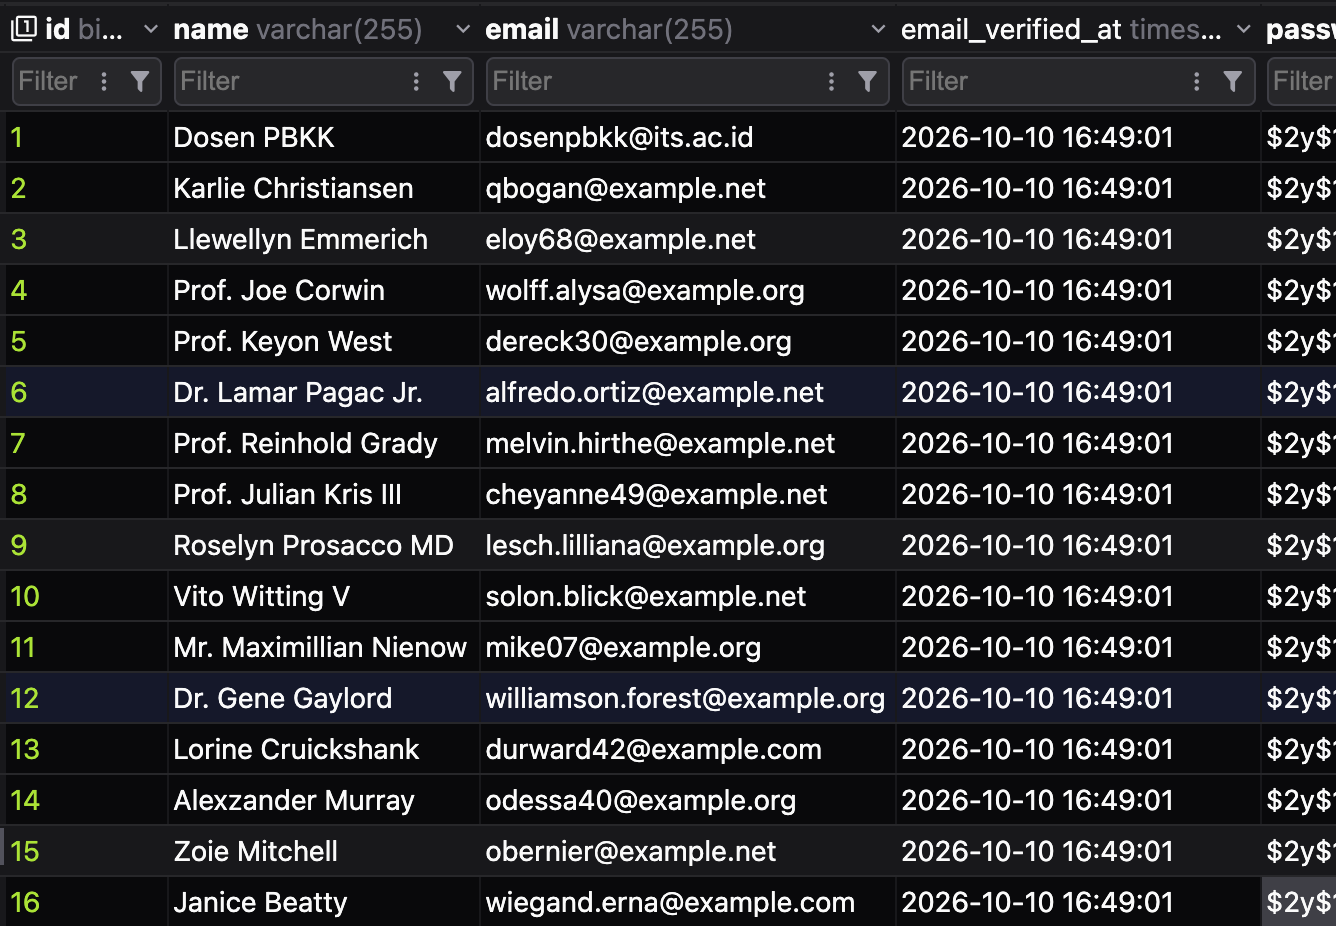
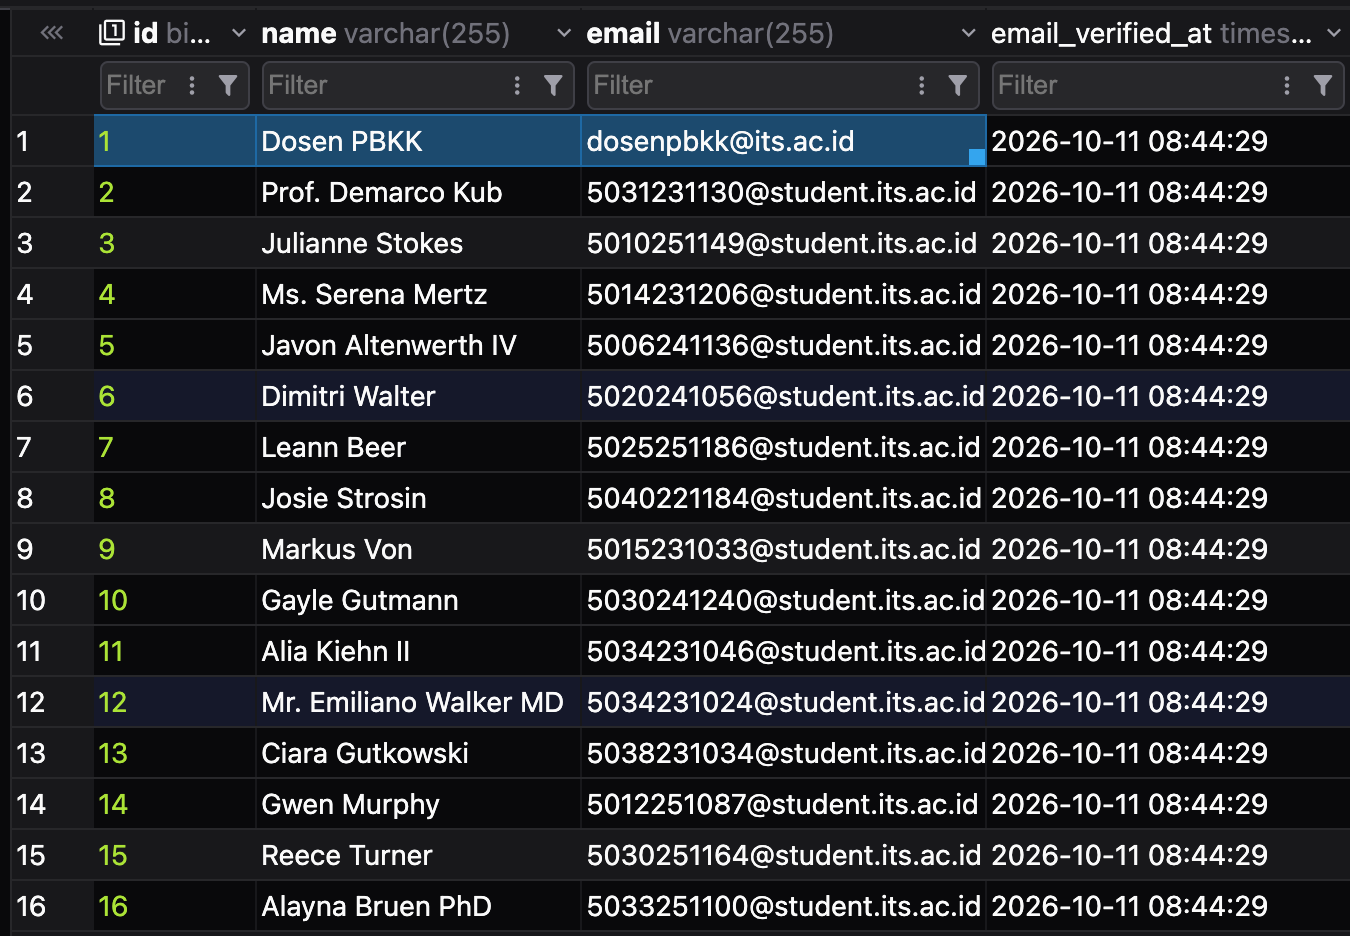
feat: final touch
ITS-ification emailwise and added database testing

diff --git a/database/factories/UserFactory.php b/database/factories/UserFactory.php
@@ -12,16 +12,8 @@ use Illuminate\Support\Str;
  */
 class UserFactory extends Factory
 {
-    /**
-     * The current password being used by the factory.
-     */
     protected static ?string $password;
 
-    /**
-     * Define the model's default state.
-     *
-     * @return array<string, mixed>
-     */
     public function definition(): array
     {
         return [
@@ -34,8 +26,40 @@ class UserFactory extends Factory
     }
 
     /**
-     * Indicate that the model's email address should be unverified.
+     * Indicate that the user is an ITS student with a realistic student ID email.
+     *
+     * Format: 50XXYY1ZZZ@student.its.ac.id
+     *   XX  = department code (01-40)
+     *   YY  = enrollment year (2 digits)
+     *   ZZZ = registration number (001-250)
      */
+    public function itsStudent(): static
+    {
+        return $this->state(fn (array $attributes) => [
+            'email' => $this->generateUniqueItsEmail(),
+        ]);
+    }
+
+    /**
+     * Build a unique ITS student email, retrying on collision.
+     *
+     * Uniqueness is enforced on the full email string, not the registration
+     * number alone, because two students in different departments or years
+     * can legitimately share the same ZZZ value.
+     */
+    protected function generateUniqueItsEmail(): string
+    {
+        do {
+            $department = str_pad((string) fake()->numberBetween(1, 40), 2, '0', STR_PAD_LEFT);
+            $year = fake()->randomElement(['22', '23', '24', '25']);
+            $regNumber = str_pad((string) fake()->numberBetween(1, 250), 3, '0', STR_PAD_LEFT);
+
+            $email = "50{$department}{$year}1{$regNumber}@student.its.ac.id";
+        } while (User::where('email', $email)->exists());
+
+        return $email;
+    }
+
     public function unverified(): static
     {
         return $this->state(fn (array $attributes) => [

diff --git a/tests/Feature/DashboardTest.php b/tests/Feature/DashboardTest.php
@@ -1,0 +1,35 @@
+<?php
+
+use App\Models\Project;
+use App\Models\User;
+
+test('dashboard shows only the authenticated user\'s projects', function () {
+    $me = User::factory()->create();
+    $other = User::factory()->create();
+
+    $mine = Project::factory()->for($me)->create(['judul' => 'My Project']);
+    $theirs = Project::factory()->for($other)->create(['judul' => 'Their Project']);
+
+    $response = $this->actingAs($me)->get('/dashboard');
+
+    $response->assertOk();
+    $response->assertSee('My Project');
+    $response->assertDontSee('Their Project');
+});
+
+test('dashboard lists projects newest first', function () {
+    $user = User::factory()->create();
+
+    $old = Project::factory()->for($user)->create([
+        'judul' => 'Old Project',
+        'created_at' => now()->subDays(3),
+    ]);
+    $new = Project::factory()->for($user)->create([
+        'judul' => 'New Project',
+        'created_at' => now(),
+    ]);
+
+    $response = $this->actingAs($user)->get('/dashboard');
+
+    $response->assertSeeInOrder(['New Project', 'Old Project']);
+});

diff --git a/database/seeders/DatabaseSeeder.php b/database/seeders/DatabaseSeeder.php
@@ -35,6 +35,7 @@ class DatabaseSeeder extends Seeder
         // 15 random students, each with 2 dummy projects.
         User::factory()
             ->count(15)
+            ->itsStudent()
             ->has(Project::factory()->count(2))
             ->create();
     }

diff --git a/README.md b/README.md
@@ -28,12 +28,17 @@ Tugas minggu ke-6 kelompok 2, portal Laravel yang menyimpan user profiles dengan
   - [Factories & Seeders Orkestrasi](#penilaian-factories--seeders-orkestrasi)
   - [Integritas Query di Dashboard](#penilaian-integritas-query-di-dashboard)
   - [Kerapian Kode & Standar PSR-12](#penilaian-kerapian-kode--standar-psr-12)
+- [Testing](#testing)
 
 ## How to Run
 
 ### Laravel App
 
 ```bash
+# 0. Clone the repository
+git clone https://github.com/NewGenome/PBKK-W6
+cd PBKK-W6
+
 # 1. Install PHP and Node dependencies
 composer install
 npm install
@@ -135,10 +140,9 @@ php artisan migrate:fresh --seed
 - `Database\Factories\ProjectFactory` memakai Faker untuk menghasilkan judul proposal Agentic AI
   yang realistis dari daftar tema (`Ollama`, `LangChain`, `CrewAI`, dll.) dan subjek (`Autonomous
   Research Assistant`, `Multi-Agent Code Reviewer`, dll.).
-- `DatabaseSeeder` membuat **15 user mahasiswa acak**, masing-masing dengan **2 project dummy**
-  via `User::factory()->count(15)->has(Project::factory()->count(2))->create()`.
+- `DatabaseSeeder` membuat **15 user mahasiswa ITS acak**, masing-masing dengan **2 project dummy** via `User::factory()->count(15)->itsStudent()->has(Project::factory()->count(2))->create()`. Email mereka mengikuti format `50XXYY1ZZZ@student.its.ac.id`.
 - Akun demo `dosenpbkk@its.ac.id` (password `password`) disiapkan dengan 3 project siap presentasi.
-- `UserFactory` menggunakan `fake()->unique()->safeEmail()` sehingga tidak ada duplikasi email.
+- `UserFactory::generateUniqueItsEmail()` menghasilkan email mahasiswa ITS dengan format `50XXYY1ZZZ@student.its.ac.id` (kode departemen, tahun angkatan, nomor registrasi). Uniqueness diukur dari keseluruhan string email (karena berupa StudentID/NRP).
 
 | Users Seed Result | Project Seed Result |
 | :---------------: | :------------------ |
@@ -169,3 +173,18 @@ php artisan migrate:fresh --seed
   tidak ter-commit.
 - README ini mendokumentasikan langkah setup lokal (`composer install`, `php artisan migrate --seed`,
   `docker compose up -d`).
+
+Untuk pengujian formatting PSR-12, silahkan lakukan
+
+```bash
+vendor/bin/pint --test
+```
+
+## Testing
+
+The test suite uses Pest with an in-memory SQLite database (see `phpunit.xml`),
+so it does not touch your Docker MySQL container.
+
+```bash
+php artisan test
+```
